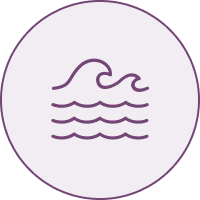
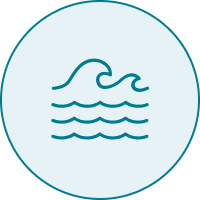
Topics

diff --git a/src/ckanext-natcap/ckanext/natcap/assets/css/natcap.css b/src/ckanext-natcap/ckanext/natcap/assets/css/natcap.css
@@ -47,11 +47,15 @@ body {
     color: #fff;
 }
 
+.masthead .main-navbar ul li a {
+    font-weight: bold;
+}
+
 .masthead .main-navbar ul li:hover a,
 .masthead .main-navbar ul li:focus a,
 .masthead .main-navbar ul li.active a {
     border-radius: 0.3rem;
-    background-color: #2e2d29;
+    background-color: var(--color-dark-plum);
 }
 
 .masthead .navbar .navbar-left {
@@ -335,7 +339,7 @@ body {
 }
 
 .home-topics h2 {
-    color: var(--color-purple);
+    color: var(--color-dark-plum);
     margin: 0;
 }
 
@@ -360,7 +364,7 @@ body {
     gap: 1rem;
     font-weight: bold;
     font-size: 1.25rem;
-    color: var(--color-purple);
+    color: var(--color-blue);
 }
 
 .home-invest-container {
